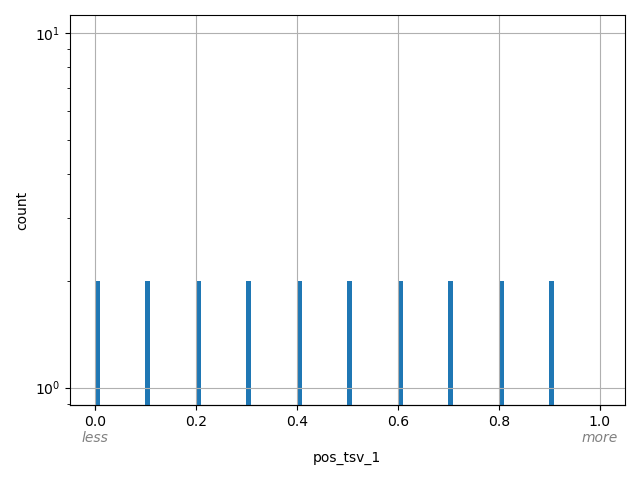
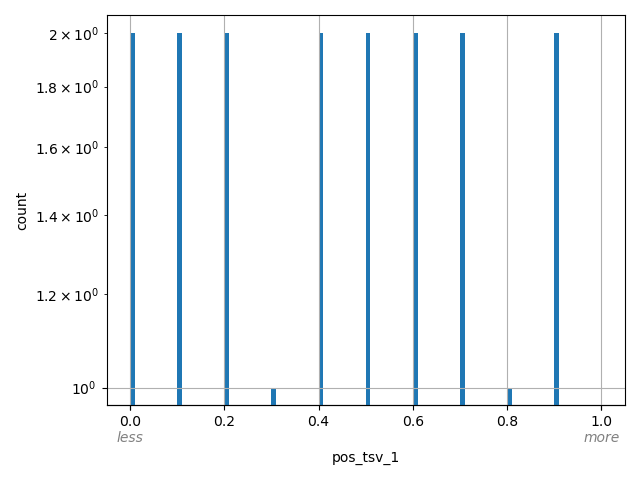
A bit of a tutorial.

diff --git a/mini_positionscore_tsv_1_twoscores/index.html b/mini_positionscore_tsv_1_twoscores/index.html
@@ -250,15 +250,15 @@ td {
             <td class="nowrap">
                 <a href='genomic_resource.yaml'>genomic_resource.yaml</a>
             </td>
-            <td class="nowrap">750.0 B</td>
-            <td class="nowrap">e458d67572a36892c665e494dc81940b</td>
+            <td class="nowrap">770.0 B</td>
+            <td class="nowrap">5cfbddf84f7d653417386d92e3722d73</td>
         </tr>
         <tr>
             <td class="nowrap">
                 <a href='mini_positionscore_tsv_1.tsv'>mini_positionscore_tsv_1.tsv</a>
             </td>
-            <td class="nowrap">324.0 B</td>
-            <td class="nowrap">4beb88220233e7c3bad807be63b7dd87</td>
+            <td class="nowrap">301.0 B</td>
+            <td class="nowrap">8b14183dc4dcd44cddb6b7e770162866</td>
         </tr>
         <tr>
             <td class="nowrap">

diff --git a/index.html b/index.html
@@ -234,7 +234,7 @@
                 </td>
                 <td class="nowrap">0</td>
                 <td class="nowrap">12</td>
-                <td class="nowrap">66.13 KB</td>
+                <td class="nowrap">70.63 KB</td>
                 <td class="nowrap">1-based tsv position score
 </td>
             </tr>

diff --git a/scores_access_demo.py b/scores_access_demo.py
@@ -1,0 +1,67 @@
+#!/usr/bin/env python
+
+from collections import defaultdict
+import os
+import pylab
+from dae.genomic_resources import build_genomic_resource_repository
+from dae.genomic_resources.reference_genome import build_reference_genome_from_resource
+from dae.genomic_resources.genomic_scores import PositionScore, NPScore
+
+
+# GRR = build_genomic_resource_repository()
+GRR = build_genomic_resource_repository({
+    "id": "this", 
+    "type": "directory", 
+    "directory": os.getcwd() 
+})
+
+
+ref = build_reference_genome_from_resource(GRR.get_resource("mini_genome")).open()
+for ch in ref.chromosomes:
+    print(ch, ref.get_chrom_length(ch))
+print("The sequence is:", ref.get_sequence("chr1", 5, 8))
+
+
+PS = PositionScore(GRR.get_resource("mini_positionscore_tsv_1_twoscores")).open()
+for score in PS.get_all_scores():
+    print(f"Score {score} of type {PS.get_score_definition(score).value_type}")
+    for ch in ref.chromosomes:
+        print(f"\tthe values from {ch}:")
+
+        for p in range(1, ref.get_chrom_length(ch)+1):
+            print("\t\t", p, PS.fetch_scores("chr1", p, [score]))
+NP = NPScore(GRR.get_resource("mini_npscore_tabix_0"))
+
+
+
+# for gr in GRR.get_all_resources():
+#     if gr.get_type() != "position_score":
+#         continue
+#     if not gr.get_id().startswith('mini'):
+#         continue
+#     sc = PositionScore(gr)
+#     sc.open()
+#     pylab.figure()
+#     print(f"##### {gr.get_id()} #####")
+    
+#     for chi, ch in enumerate(ref.chromosomes):
+#         pylab.subplot(len(ref.chromosomes), 1, chi+1)
+#         xs = defaultdict(list)
+#         ys = defaultdict(list)
+#         chrom_len = ref.get_chrom_length(ch)
+#         all_score_names = sc.get_all_scores()
+#         for p in range(1, chrom_len+1):
+#             scores = sc.fetch_scores(ch, p)
+#             if scores is not None:
+#                 assert len(scores) == len(all_score_names)
+#                 for score_name, score in zip(all_score_names, scores):
+#                     if score is not None:
+#                         xs[score_name].append(p)
+#                         ys[score_name].append(score)
+#         for score_name in all_score_names:
+#             pylab.scatter(xs[score_name], ys[score_name], label=score_name)
+#         pylab.xlim([1-0.5, chrom_len+0.5])
+#         pylab.xticks(range(1, chrom_len+1))
+#         pylab.legend()
+    
+#     pylab.savefig(f"{gr.get_id()}/scores_graph.png")
